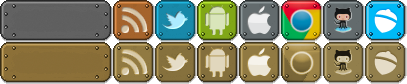
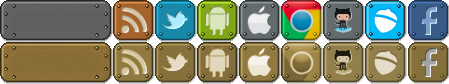
facebook in nav

diff --git a/media/css/all.css b/media/css/all.css
@@ -1,1 +1,158 @@
-body,p,h1,h2,h3,ul,blockquote{margin:0}ul{padding:0;list-style:none}.clear-float{overflow:hidden}.border-box{-webkit-box-sizing:border-box;-moz-box-sizing:border-box;box-sizing:border-box}.button{display:inline-block;width:113px;height:42px;background-image:url(/media/images/chrome/buttons.png);font-family:Arial;font-size:16px;line-height:42px;text-align:center;text-shadow:1px 1px 0 #1d1715;color:#eee}.button:hover{background-position:0 -42px;text-decoration:none}.download-podcast{background-image:url(/media/images/chrome/giant_button.png);color:#f1f1f2!important;font-size:20px;line-height:42px;text-align:center;text-decoration:none!important;display:block;width:500px;height:42px}.download-podcast:hover{background-position:0 -42px}.bullet-list{list-style-image:url(/media/images/chrome/bullet_sword.png);margin:0 40px}.bullet-list li{margin-bottom:10px}.bullet-list li:last-child{margin-bottom:0}.text-format{line-height:24px;text-align:justify}.text-format h1,.text-format h2,.text-format h3,.text-format h4,.text-format h5,.text-format h6{margin:20px 0;font-family:Prociono;font-size:24px;font-weight:normal}.text-format p{margin:20px 0}.text-format p:first-child{margin-top:0}.text-format p img{float:left;margin-right:10px}.text-format ul{list-style-image:url(/media/images/chrome/bullet_sword.png);margin:0 40px}.text-format ul li{margin-bottom:10px}.text-format ul li:last-child{margin-bottom:0}.text-format ul{margin-top:20px;margin-bottom:20px}.text-format blockquote{color:#584640;border-left:10px solid rgba(0,0,0,0.25);margin:0 20px 0 10px;padding-left:10px}.text-format .before{float:left;margin-right:20px}.text-format .after{float:right;margin-left:20px}.text-format .full-frame{text-align:center}.text-format .full-frame em{font-style:italic;font-weight:bold}.subtext{text-align:center}.ad{text-align:center;margin:10px 0}@font-face{font-family:Prociono;font-style:normal;font-weight:400;src:local('Prociono'),local('Prociono-Regular'),url(/media/fonts/prociono.woff) format('woff')}html,body{background:#000;color:#f1f1f2;font-family:Arial;font-size:16px}.standard-page{width:800px;margin:0 auto}.standard-page>.body{overflow:hidden;margin-bottom:20px}.standard-page>.body>.main{float:left;width:580px;color:#1d1715}.standard-page>.body>.main a{color:#0b521f;text-decoration:underline}.standard-page>.body>.main a:hover{color:#117f30;text-decoration:underline}.standard-page>.body>.main>.hd,.standard-page>.body>.main>.ft{height:70px;background-image:url(/media/images/chrome/scroll.png)}.standard-page>.body>.main>.ft{background-position:0 -70px}.standard-page>.body>.main>.bd{padding:0 40px 1px;background:url(/media/images/chrome/scroll_repeat.png)}.standard-page>.body>.aux{-webkit-box-sizing:border-box;-moz-box-sizing:border-box;box-sizing:border-box;float:left;width:220px;padding:20px}.standard-page>.foot{margin-bottom:20px;height:42px;line-height:42px;text-align:center;text-shadow:1px 1px 0 #1d1715;background:url(/media/images/chrome/footer.png)}.standard-page>.foot a{color:#f1f1f2;text-decoration:none}.standard-page>.foot a:hover{text-decoration:underline}.highlight{margin:1em 0;border:solid 1px #000;background:rgba(250,250,250,0.5)}.highlight pre{margin:0;display:block;overflow:auto;padding:10px;-webkit-tab-size:4;-moz-tab-size:4;-o-tab-size:4;tab-size:4}.highlight .c{color:#998;font-style:italic}.highlight .err{color:#a61717;background-color:#e3d2d2}.highlight .k{font-weight:bold}.highlight .o{font-weight:bold}.highlight .cm{color:#998;font-style:italic}.highlight .cp{color:#999;font-weight:bold}.highlight .c1{color:#998;font-style:italic}.highlight .cs{color:#999;font-weight:bold;font-style:italic}.highlight .gd{color:#000;background-color:#fdd}.highlight .gd .x{color:#000;background-color:#faa}.highlight .ge{font-style:italic}.highlight .gr{color:#a00}.highlight .gh{color:#999}.highlight .gi{color:#000;background-color:#dfd}.highlight .gi .x{color:#000;background-color:#afa}.highlight .go{color:#888}.highlight .gp{color:#555}.highlight .gs{font-weight:bold}.highlight .gu{color:#aaa}.highlight .gt{color:#a00}.highlight .kc{font-weight:bold}.highlight .kd{font-weight:bold}.highlight .kp{font-weight:bold}.highlight .kr{font-weight:bold}.highlight .kt{color:#458;font-weight:bold}.highlight .m{color:#099}.highlight .s{color:#d14}.highlight .na{color:#008080}.highlight .nb{color:#0086b3}.highlight .nc{color:#458;font-weight:bold}.highlight .no{color:#008080}.highlight .ni{color:#800080}.highlight .ne{color:#900;font-weight:bold}.highlight .nf{color:#900;font-weight:bold}.highlight .nn{color:#555}.highlight .nt{color:#000080}.highlight .nv{color:#008080}.highlight .ow{font-weight:bold}.highlight .w{color:#bbb}.highlight .mf{color:#099}.highlight .mh{color:#099}.highlight .mi{color:#099}.highlight .mo{color:#099}.highlight .sb{color:#d14}.highlight .sc{color:#d14}.highlight .sd{color:#d14}.highlight .s2{color:#d14}.highlight .se{color:#d14}.highlight .sh{color:#d14}.highlight .si{color:#d14}.highlight .sx{color:#d14}.highlight .sr{color:#009926}.highlight .s1{color:#d14}.highlight .ss{color:#990073}.highlight .bp{color:#999}.highlight .vc{color:#008080}.highlight .vg{color:#008080}.highlight .vi{color:#008080}.highlight .il{color:#099}.page h1.title{display:inline-block;margin:10px 0 20px;font-family:Prociono;font-size:32px;font-weight:normal}.page .content{line-height:24px;text-align:justify}.page .content h1,.page .content h2,.page .content h3,.page .content h4,.page .content h5,.page .content h6{margin:20px 0;font-family:Prociono;font-size:24px;font-weight:normal}.page .content p{margin:20px 0}.page .content p:first-child{margin-top:0}.page .content p img{float:left;margin-right:10px}.page .content ul{list-style-image:url(/media/images/chrome/bullet_sword.png);margin:0 40px}.page .content ul li{margin-bottom:10px}.page .content ul li:last-child{margin-bottom:0}.page .content ul{margin-top:20px;margin-bottom:20px}.page .content blockquote{color:#584640;border-left:10px solid rgba(0,0,0,0.25);margin:0 20px 0 10px;padding-left:10px}.page .content .before{float:left;margin-right:20px}.page .content .after{float:right;margin-left:20px}.page .content .full-frame{text-align:center}.page .content .full-frame em{font-style:italic;font-weight:bold}.page-head{position:relative}.page-head a{text-decoration:none}.page-head h1{font-family:Prociono;font-size:48px;position:absolute;left:300px;top:20px;display:inline;width:492px;height:59px}.page-head .title{color:#fff;text-shadow:2px 2px 2px #666}.page-head em{color:#939598;text-align:center;position:absolute;left:300px;top:80px;width:420px}.page-head nav{-webkit-box-sizing:border-box;-moz-box-sizing:border-box;box-sizing:border-box;height:64px;margin-bottom:20px;padding:12px;background-image:url(/media/images/chrome/navigation_bar.png)}.page-head nav a{display:inline-block;width:113px;height:42px;background-image:url(/media/images/chrome/buttons.png);font-family:Arial;font-size:16px;line-height:42px;text-align:center;text-shadow:1px 1px 0 #1d1715;color:#eee;margin-right:10px}.page-head nav a:hover{background-position:0 -42px;text-decoration:none}.page-head nav .site{float:left}.page-head nav .social{float:right}.page-head nav .social a{width:42px;height:42px;text-indent:-999em}.page-head nav .social a.twitter{background-position:-155px 0}.page-head nav .social a.twitter:hover{background-position:-155px -42px}.page-head nav .social a.rss{background-position:-113px 0}.page-head nav .social a.rss:hover{background-position:-113px -42px}.page-head nav .social a:last-child{margin-right:0}.post h1.title{display:inline-block;margin:10px 0 20px;font-family:Prociono;font-size:32px;font-weight:normal}.post aside{padding:10px;border:1px solid rgba(0,0,0,0.5);border-radius:5px;background:rgba(0,0,0,0.25)}.post .meta{margin-bottom:20px}.post .meta .avatar{border:solid 2px #1d1715;float:left;margin-right:10px}.post .meta .author{line-height:22px;display:block}.post .meta .date{line-height:22px;display:block;color:#4f3f38;font-size:75%}.post .meta a{background-image:url(/media/images/chrome/buttons.png);float:right;text-indent:-999em;display:block;margin-left:10px;width:42px;height:42px}.post .meta a.github{background-position:-323px 0}.post .meta a.github:hover{background-position:-323px -42px}.post .meta a.twitter{background-position:-155px 0}.post .meta a.twitter:hover{background-position:-155px -42px}.post .content{line-height:24px;text-align:justify}.post .content h1,.post .content h2,.post .content h3,.post .content h4,.post .content h5,.post .content h6{margin:20px 0;font-family:Prociono;font-size:24px;font-weight:normal}.post .content p{margin:20px 0}.post .content p:first-child{margin-top:0}.post .content p img{float:left;margin-right:10px}.post .content ul{list-style-image:url(/media/images/chrome/bullet_sword.png);margin:0 40px}.post .content ul li{margin-bottom:10px}.post .content ul li:last-child{margin-bottom:0}.post .content ul{margin-top:20px;margin-bottom:20px}.post .content blockquote{color:#584640;border-left:10px solid rgba(0,0,0,0.25);margin:0 20px 0 10px;padding-left:10px}.post .content .before{float:left;margin-right:20px}.post .content .after{float:right;margin-left:20px}.post .content .full-frame{text-align:center}.post .content .full-frame em{font-style:italic;font-weight:bold}.post .comments{border:dotted 2px #000;border-style:dotted none;margin-bottom:20px;padding-bottom:5px}.post .comments h2{float:left;margin-top:5px;font-family:Prociono}.post .comments #dsq-content #dsq-global-toolbar{margin-top:0}.post-list{text-align:left}.post-list>header>.title{display:inline-block;margin:20px 0;font-family:Prociono;font-size:32px;font-weight:normal}.post-list .posts{margin-bottom:20px}.post-list .posts li{margin-bottom:20px}.post-list .posts li:last-child{margin-bottom:0}.post-list .posts .title{display:inline-block;font-size:24px}.post-list .posts .meta{display:block;color:#4f3f38;font-size:12px;padding-top:3px}.post-list .posts .meta .comments{display:inline-block;margin-left:5px;padding-left:7px;border-left:solid 1px #666}.post-list .pagination{border-top:dotted 1px #000;padding:20px 0;font-size:18px}.post-list .pagination .prev{float:left}.post-list .pagination .next{float:right}.share .title{font-weight:bold;display:block;margin-bottom:10px;text-shadow:1px 1px 1px #ccc}.share ul{list-style:none;padding:0;margin:0}.share ul li{display:inline-block;margin-right:20px;vertical-align:top}.share ul .facebook{margin-right:15px}.authors hr{border:1px solid #1d1715;margin:20px 0}.authors .author .avatar{border:solid 2px #000}.authors .author:nth-child(odd) .avatar{float:left;margin-right:20px}.authors .author:nth-child(even) .avatar{float:right;margin-left:20px}ul.bullets{list-style-image:url(/media/images/chrome/bullet_sword.png);margin:0 40px}ul.bullets li{margin-bottom:10px}ul.bullets li:last-child{margin-bottom:0}#welcome{display:inline-block;text-align:justify;background:rgba(0,0,0,0.1);border-radius:5px;padding:10px;margin-top:10px}#welcome img{float:left;margin:0 10px 5px 0}a{color:#f68b1f;text-decoration:underline}a:hover{text-decoration:none}.onslaught{margin-bottom:2em}.lostcast img{margin-bottom:10px}.onslaught,.lostcast{text-align:center}.onslaught p,.lostcast p{color:#f1f1f2;margin-bottom:1em}.onslaught p a,.lostcast p a{background-image:url(/media/images/chrome/buttons.png);color:#eee;font-size:16px;text-align:center;text-decoration:none;text-shadow:1px 1px 0 #1d1715;display:inline-block;line-height:42px;width:113px;height:42px}.onslaught p a:hover,.lostcast p a:hover{background-position:0 -42px;text-decoration:none}.onslaught ul,.lostcast ul{margin:0 0 10px 18px;height:42px}.onslaught ul li,.lostcast ul li{display:inline}.onslaught ul li a,.lostcast ul li a{background-image:url(/media/images/chrome/buttons.png);float:left;text-indent:-999em;display:block;margin-right:10px;width:42px;height:42px}.onslaught ul li:last-child a,.lostcast ul li:last-child a{margin:0}.onslaught .android,.lostcast .android{background-position:-197px 0}.onslaught .android:hover,.lostcast .android:hover{background-position:-197px -42px}.onslaught .apple,.lostcast .apple{background-position:-239px 0}.onslaught .apple:hover,.lostcast .apple:hover{background-position:-239px -42px}.onslaught .chrome,.lostcast .chrome{background-position:-281px 0}.onslaught .chrome:hover,.lostcast .chrome:hover{background-position:-281px -42px}.onslaught .pokki,.lostcast .pokki{background-position:-365px 0}.onslaught .pokki:hover,.lostcast .pokki:hover{background-position:-365px -42px}.lostcast p a.rss{background-position:-113px 0;text-indent:-999em;width:42px;height:42px}.lostcast p a.rss:hover{background-position:-113px -42px}
+body,p,h1,h2,h3,ul,blockquote{margin:0;}
+ul{padding:0;list-style:none;}
+.clear-float{overflow:hidden;}
+.border-box{-webkit-box-sizing:border-box;-moz-box-sizing:border-box;box-sizing:border-box;}
+.button{display:inline-block;width:113px;height:42px;background-image:url(/media/images/chrome/buttons.png);font-family:Arial;font-size:16px;line-height:42px;text-align:center;text-shadow:1px 1px 0 #1d1715;color:#eee;}.button:hover{background-position:0 -42px;text-decoration:none;}
+.download-podcast{background-image:url(/media/images/chrome/giant_button.png);color:#f1f1f2 !important;font-size:20px;line-height:42px;text-align:center;text-decoration:none !important;display:block;width:500px;height:42px;}.download-podcast:hover{background-position:0 -42px;}
+.bullet-list{list-style-image:url(/media/images/chrome/bullet_sword.png);margin:0 40px;}.bullet-list li{margin-bottom:10px;}.bullet-list li:last-child{margin-bottom:0;}
+.text-format{line-height:24px;text-align:justify;}.text-format h1,.text-format h2,.text-format h3,.text-format h4,.text-format h5,.text-format h6{margin:20px 0;font-family:Prociono;font-size:24px;font-weight:normal;}
+.text-format p{margin:20px 0;}.text-format p:first-child{margin-top:0;}
+.text-format p img{float:left;margin-right:10px;}
+.text-format ul{list-style-image:url(/media/images/chrome/bullet_sword.png);margin:0 40px;}.text-format ul li{margin-bottom:10px;}.text-format ul li:last-child{margin-bottom:0;}
+.text-format ul{margin-top:20px;margin-bottom:20px;}
+.text-format blockquote{color:#584640;border-left:10px solid rgba(0, 0, 0, 0.25);margin:0 20px 0 10px;padding-left:10px;}
+.text-format .before{float:left;margin-right:20px;}
+.text-format .after{float:right;margin-left:20px;}
+.text-format .full-frame{text-align:center;}.text-format .full-frame em{font-style:italic;font-weight:bold;}
+.subtext{text-align:center;}
+.ad{text-align:center;margin:10px 0;}
+@font-face{font-family:Prociono;font-style:normal;font-weight:400;src:local('Prociono'),local('Prociono-Regular'),url(/media/fonts/prociono.woff) format('woff');}html,body{background:#000;color:#f1f1f2;font-family:Arial;font-size:16px;}
+.standard-page{width:800px;margin:0 auto;}.standard-page>.body{overflow:hidden;margin-bottom:20px;}.standard-page>.body>.main{float:left;width:580px;color:#1d1715;}.standard-page>.body>.main a{color:#0b521f;text-decoration:underline;}.standard-page>.body>.main a:hover{color:#117f30;text-decoration:underline;}
+.standard-page>.body>.main>.hd,.standard-page>.body>.main>.ft{height:70px;background-image:url(/media/images/chrome/scroll.png);}
+.standard-page>.body>.main>.ft{background-position:0 -70px;}
+.standard-page>.body>.main>.bd{padding:0 40px 1px;background:url(/media/images/chrome/scroll_repeat.png);}
+.standard-page>.body>.aux{-webkit-box-sizing:border-box;-moz-box-sizing:border-box;box-sizing:border-box;float:left;width:220px;padding:20px;}
+.standard-page>.foot{margin-bottom:20px;height:42px;line-height:42px;text-align:center;text-shadow:1px 1px 0 #1d1715;background:url(/media/images/chrome/footer.png);}.standard-page>.foot a{color:#f1f1f2;text-decoration:none;}.standard-page>.foot a:hover{text-decoration:underline;}
+.highlight{margin:1em 0;border:solid 1px #000;background:rgba(250, 250, 250, 0.5);}.highlight pre{margin:0;display:block;overflow:auto;padding:10px;-webkit-tab-size:4;-moz-tab-size:4;-o-tab-size:4;tab-size:4;}
+.highlight .c{color:#999988;font-style:italic;}
+.highlight .err{color:#a61717;background-color:#e3d2d2;}
+.highlight .k{font-weight:bold;}
+.highlight .o{font-weight:bold;}
+.highlight .cm{color:#999988;font-style:italic;}
+.highlight .cp{color:#999999;font-weight:bold;}
+.highlight .c1{color:#999988;font-style:italic;}
+.highlight .cs{color:#999999;font-weight:bold;font-style:italic;}
+.highlight .gd{color:#000000;background-color:#ffdddd;}
+.highlight .gd .x{color:#000000;background-color:#ffaaaa;}
+.highlight .ge{font-style:italic;}
+.highlight .gr{color:#aa0000;}
+.highlight .gh{color:#999999;}
+.highlight .gi{color:#000000;background-color:#ddffdd;}
+.highlight .gi .x{color:#000000;background-color:#aaffaa;}
+.highlight .go{color:#888888;}
+.highlight .gp{color:#555555;}
+.highlight .gs{font-weight:bold;}
+.highlight .gu{color:#aaaaaa;}
+.highlight .gt{color:#aa0000;}
+.highlight .kc{font-weight:bold;}
+.highlight .kd{font-weight:bold;}
+.highlight .kp{font-weight:bold;}
+.highlight .kr{font-weight:bold;}
+.highlight .kt{color:#445588;font-weight:bold;}
+.highlight .m{color:#009999;}
+.highlight .s{color:#dd1144;}
+.highlight .na{color:#008080;}
+.highlight .nb{color:#0086b3;}
+.highlight .nc{color:#445588;font-weight:bold;}
+.highlight .no{color:#008080;}
+.highlight .ni{color:#800080;}
+.highlight .ne{color:#990000;font-weight:bold;}
+.highlight .nf{color:#990000;font-weight:bold;}
+.highlight .nn{color:#555555;}
+.highlight .nt{color:#000080;}
+.highlight .nv{color:#008080;}
+.highlight .ow{font-weight:bold;}
+.highlight .w{color:#bbbbbb;}
+.highlight .mf{color:#009999;}
+.highlight .mh{color:#009999;}
+.highlight .mi{color:#009999;}
+.highlight .mo{color:#009999;}
+.highlight .sb{color:#dd1144;}
+.highlight .sc{color:#dd1144;}
+.highlight .sd{color:#dd1144;}
+.highlight .s2{color:#dd1144;}
+.highlight .se{color:#dd1144;}
+.highlight .sh{color:#dd1144;}
+.highlight .si{color:#dd1144;}
+.highlight .sx{color:#dd1144;}
+.highlight .sr{color:#009926;}
+.highlight .s1{color:#dd1144;}
+.highlight .ss{color:#990073;}
+.highlight .bp{color:#999999;}
+.highlight .vc{color:#008080;}
+.highlight .vg{color:#008080;}
+.highlight .vi{color:#008080;}
+.highlight .il{color:#009999;}
+.page h1.title{display:inline-block;margin:10px 0 20px;font-family:Prociono;font-size:32px;font-weight:normal;}
+.page .content{line-height:24px;text-align:justify;}.page .content h1,.page .content h2,.page .content h3,.page .content h4,.page .content h5,.page .content h6{margin:20px 0;font-family:Prociono;font-size:24px;font-weight:normal;}
+.page .content p{margin:20px 0;}.page .content p:first-child{margin-top:0;}
+.page .content p img{float:left;margin-right:10px;}
+.page .content ul{list-style-image:url(/media/images/chrome/bullet_sword.png);margin:0 40px;}.page .content ul li{margin-bottom:10px;}.page .content ul li:last-child{margin-bottom:0;}
+.page .content ul{margin-top:20px;margin-bottom:20px;}
+.page .content blockquote{color:#584640;border-left:10px solid rgba(0, 0, 0, 0.25);margin:0 20px 0 10px;padding-left:10px;}
+.page .content .before{float:left;margin-right:20px;}
+.page .content .after{float:right;margin-left:20px;}
+.page .content .full-frame{text-align:center;}.page .content .full-frame em{font-style:italic;font-weight:bold;}
+.page-head{position:relative;}.page-head a{text-decoration:none;}
+.page-head h1{font-family:Prociono;font-size:48px;position:absolute;left:300px;top:20px;display:inline;width:492px;height:59px;}
+.page-head .title{color:#fff;text-shadow:2px 2px 2px #666;}
+.page-head em{color:#939598;text-align:center;position:absolute;left:300px;top:80px;width:420px;}
+.page-head nav{-webkit-box-sizing:border-box;-moz-box-sizing:border-box;box-sizing:border-box;height:64px;margin-bottom:20px;padding:12px;background-image:url(/media/images/chrome/navigation_bar.png);}.page-head nav a{display:inline-block;width:113px;height:42px;background-image:url(/media/images/chrome/buttons.png);font-family:Arial;font-size:16px;line-height:42px;text-align:center;text-shadow:1px 1px 0 #1d1715;color:#eee;margin-right:10px;}.page-head nav a:hover{background-position:0 -42px;text-decoration:none;}
+.page-head nav .site{float:left;}
+.page-head nav .social{float:right;}.page-head nav .social a{width:42px;height:42px;text-indent:-999em;}.page-head nav .social a.facebook{background-position:-407px 0;}.page-head nav .social a.facebook:hover{background-position:-407px -42px;}
+.page-head nav .social a.twitter{background-position:-155px 0;}.page-head nav .social a.twitter:hover{background-position:-155px -42px;}
+.page-head nav .social a.rss{background-position:-113px 0;}.page-head nav .social a.rss:hover{background-position:-113px -42px;}
+.page-head nav .social a:last-child{margin-right:0;}
+.post h1.title{display:inline-block;margin:10px 0 20px;font-family:Prociono;font-size:32px;font-weight:normal;}
+.post aside{padding:10px;border:1px solid rgba(0, 0, 0, 0.5);border-radius:5px;background:rgba(0, 0, 0, 0.25);}
+.post .meta{margin-bottom:20px;}.post .meta .avatar{border:solid 2px #1d1715;float:left;margin-right:10px;}
+.post .meta .author{line-height:22px;display:block;}
+.post .meta .date{line-height:22px;display:block;color:#4f3f38;font-size:75%;}
+.post .meta a{background-image:url(/media/images/chrome/buttons.png);float:right;text-indent:-999em;display:block;margin-left:10px;width:42px;height:42px;}.post .meta a.github{background-position:-323px 0;}
+.post .meta a.github:hover{background-position:-323px -42px;}
+.post .meta a.twitter{background-position:-155px 0;}
+.post .meta a.twitter:hover{background-position:-155px -42px;}
+.post .content{line-height:24px;text-align:justify;}.post .content h1,.post .content h2,.post .content h3,.post .content h4,.post .content h5,.post .content h6{margin:20px 0;font-family:Prociono;font-size:24px;font-weight:normal;}
+.post .content p{margin:20px 0;}.post .content p:first-child{margin-top:0;}
+.post .content p img{float:left;margin-right:10px;}
+.post .content ul{list-style-image:url(/media/images/chrome/bullet_sword.png);margin:0 40px;}.post .content ul li{margin-bottom:10px;}.post .content ul li:last-child{margin-bottom:0;}
+.post .content ul{margin-top:20px;margin-bottom:20px;}
+.post .content blockquote{color:#584640;border-left:10px solid rgba(0, 0, 0, 0.25);margin:0 20px 0 10px;padding-left:10px;}
+.post .content .before{float:left;margin-right:20px;}
+.post .content .after{float:right;margin-left:20px;}
+.post .content .full-frame{text-align:center;}.post .content .full-frame em{font-style:italic;font-weight:bold;}
+.post .comments{border:dotted 2px #000;border-style:dotted none;margin-bottom:20px;padding-bottom:5px;}.post .comments h2{float:left;margin-top:5px;font-family:Prociono;}
+.post .comments #dsq-content #dsq-global-toolbar{margin-top:0;}
+.post-list{text-align:left;}.post-list>header>.title{display:inline-block;margin:20px 0;font-family:Prociono;font-size:32px;font-weight:normal;}
+.post-list .posts{margin-bottom:20px;}.post-list .posts li{margin-bottom:20px;}.post-list .posts li:last-child{margin-bottom:0;}
+.post-list .posts .title{display:inline-block;font-size:24px;}
+.post-list .posts .meta{display:block;color:#4f3f38;font-size:12px;padding-top:3px;}.post-list .posts .meta .comments{display:inline-block;margin-left:5px;padding-left:7px;border-left:solid 1px #666;}
+.post-list .pagination{border-top:dotted 1px #000;padding:20px 0;font-size:18px;}.post-list .pagination .prev{float:left;}
+.post-list .pagination .next{float:right;}
+.share .title{font-weight:bold;display:block;margin-bottom:10px;text-shadow:1px 1px 1px #ccc;}
+.share ul{list-style:none;padding:0;margin:0;}.share ul li{display:inline-block;margin-right:20px;vertical-align:top;}
+.share ul .facebook{margin-right:15px;}
+.authors hr{border:1px solid #1d1715;margin:20px 0;}
+.authors .author .avatar{border:solid 2px #000;}
+.authors .author:nth-child(odd) .avatar{float:left;margin-right:20px;}
+.authors .author:nth-child(even) .avatar{float:right;margin-left:20px;}
+ul.bullets{list-style-image:url(/media/images/chrome/bullet_sword.png);margin:0 40px;}ul.bullets li{margin-bottom:10px;}ul.bullets li:last-child{margin-bottom:0;}
+#welcome{display:inline-block;text-align:justify;background:rgba(0, 0, 0, 0.1);border-radius:5px;padding:10px;margin-top:10px;}#welcome img{float:left;margin:0 10px 5px 0;}
+a{color:#f68b1f;text-decoration:underline;}
+a:hover{text-decoration:none;}
+.onslaught{margin-bottom:2em;}
+.lostcast img{margin-bottom:10px;}
+.onslaught,.lostcast{text-align:center;}.onslaught p,.lostcast p{color:#f1f1f2;margin-bottom:1em;}.onslaught p a,.lostcast p a{background-image:url(/media/images/chrome/buttons.png);color:#eee;font-size:16px;text-align:center;text-decoration:none;text-shadow:1px 1px 0 #1d1715;display:inline-block;line-height:42px;width:113px;height:42px;}
+.onslaught p a:hover,.lostcast p a:hover{background-position:0 -42px;text-decoration:none;}
+.onslaught ul,.lostcast ul{margin:0 0 10px 18px;height:42px;}
+.onslaught ul li,.lostcast ul li{display:inline;}.onslaught ul li a,.lostcast ul li a{background-image:url(/media/images/chrome/buttons.png);float:left;text-indent:-999em;display:block;margin-right:10px;width:42px;height:42px;}
+.onslaught ul li:last-child a,.lostcast ul li:last-child a{margin:0;}
+.onslaught .android,.lostcast .android{background-position:-197px 0;}
+.onslaught .android:hover,.lostcast .android:hover{background-position:-197px -42px;}
+.onslaught .apple,.lostcast .apple{background-position:-239px 0;}
+.onslaught .apple:hover,.lostcast .apple:hover{background-position:-239px -42px;}
+.onslaught .chrome,.lostcast .chrome{background-position:-281px 0;}
+.onslaught .chrome:hover,.lostcast .chrome:hover{background-position:-281px -42px;}
+.onslaught .pokki,.lostcast .pokki{background-position:-365px 0;}
+.onslaught .pokki:hover,.lostcast .pokki:hover{background-position:-365px -42px;}
+.lostcast p a.rss{background-position:-113px 0;text-indent:-999em;width:42px;height:42px;}.lostcast p a.rss:hover{background-position:-113px -42px;}

diff --git a/_less/page_head.less b/_less/page_head.less
@@ -63,6 +63,13 @@
 				height: 42px;
 				text-indent: -999em;
 
+				&.facebook {
+					background-position: -407px 0;
+					&:hover {
+						background-position: -407px -42px;
+					}
+				}
+
 				&.twitter {
 					background-position: -155px 0;
 					&:hover {
